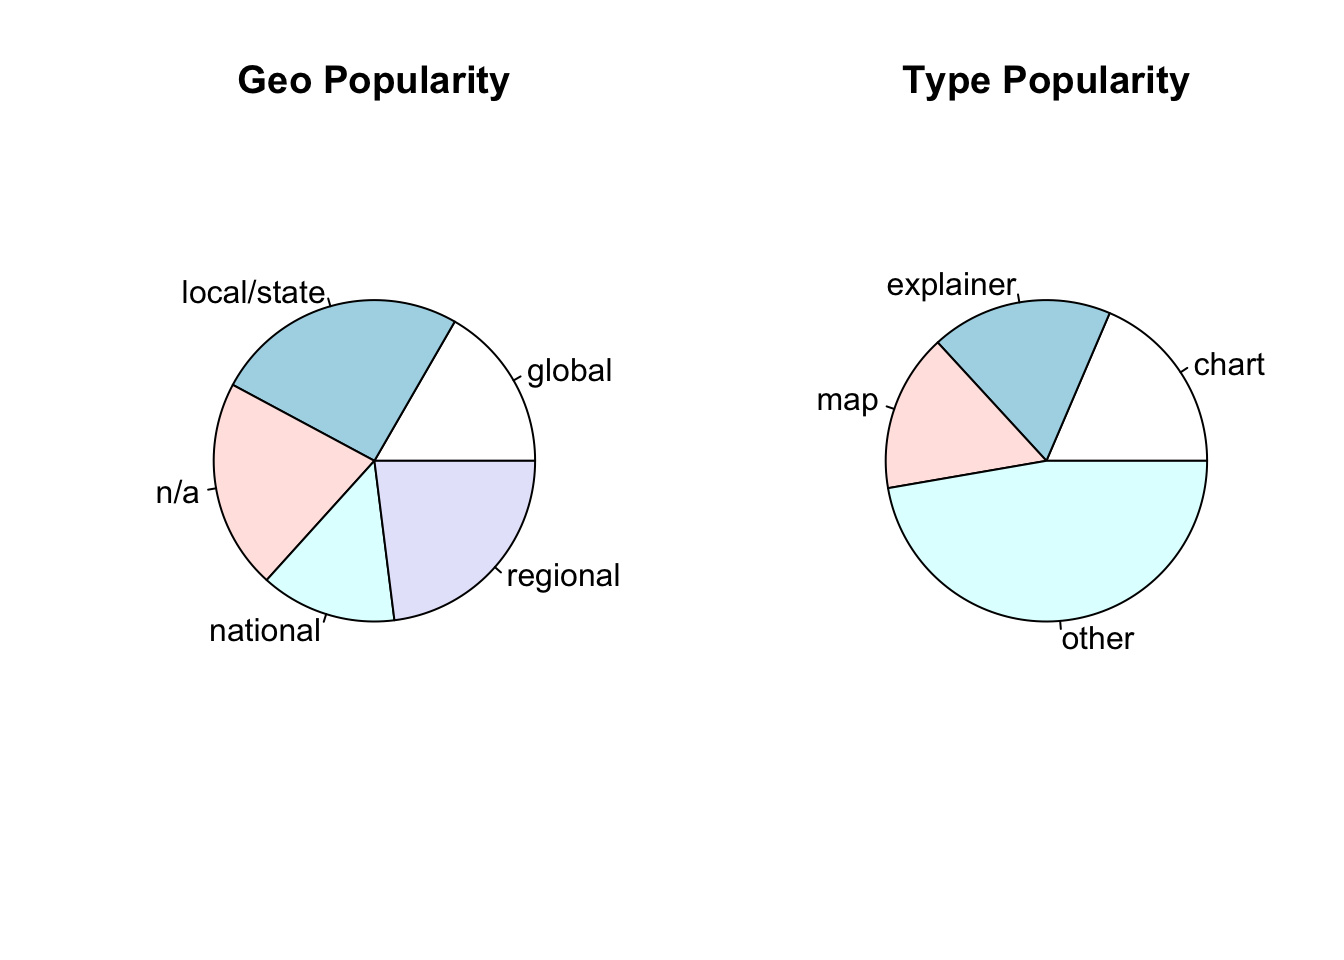
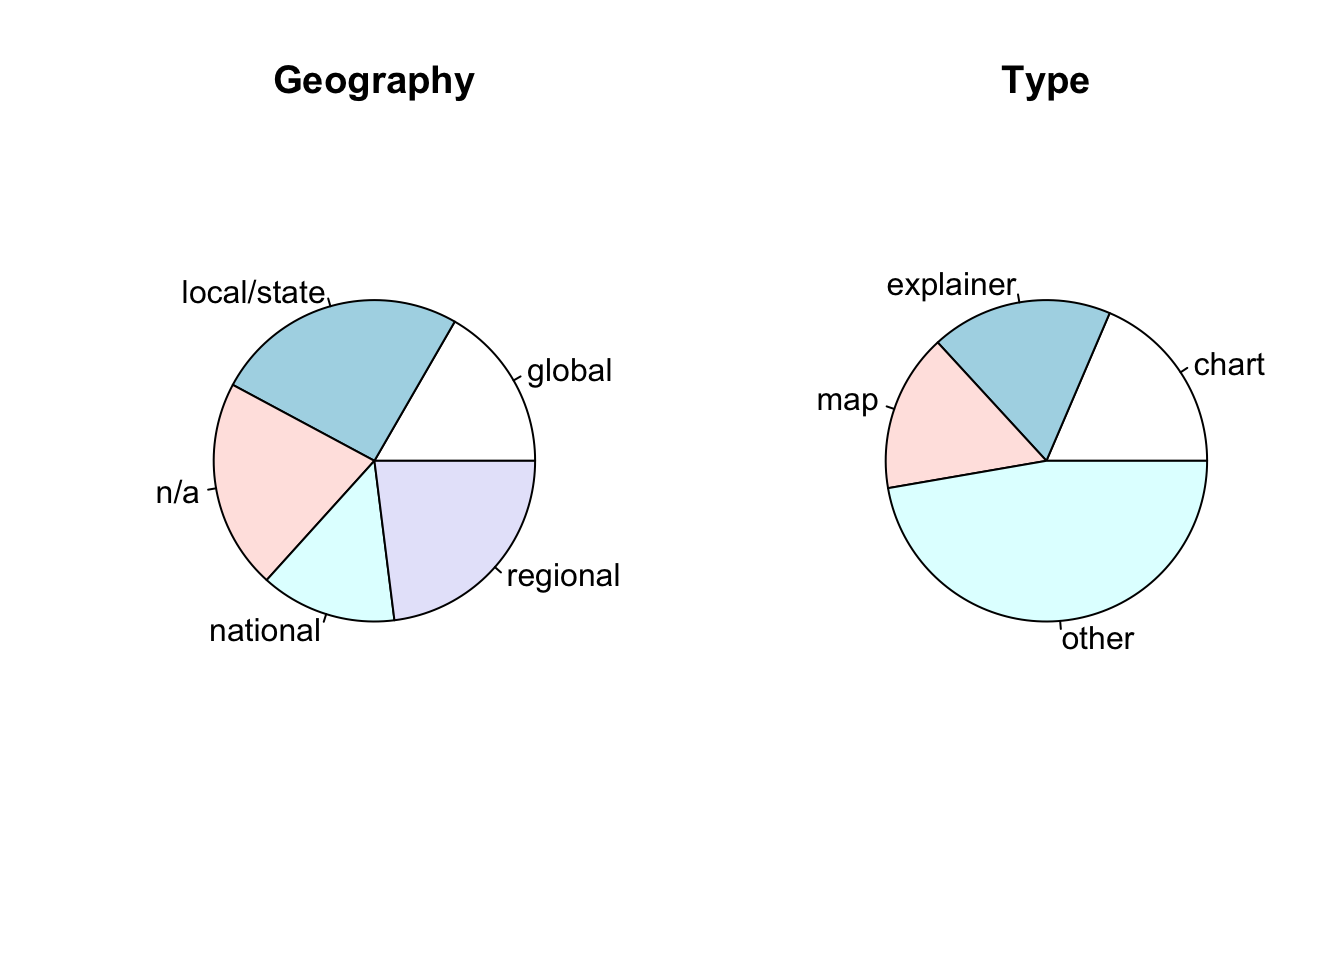
Polishing seasonal evaluation

Changed region(s): [[0.6562, 0.0625, 0.9062, 0.125], [0.1562, 0.0625, 0.375, 0.125]]

diff --git a/docs/index.html b/docs/index.html
@@ -399,26 +399,32 @@ div.tocify {
 
 </style>
 <div class="row" style="padding-top: 30px;">
-<div class="col-sm-10">
+<div class="col-sm-14">
 <h1 id="summer-2020"><strong>Summer 2020</strong></h1>
+<p>If you’re unsure about release and graphic names, <a href="https://docs.google.com/spreadsheets/d/1bArJV-oHTp09L4fk1vrAXzKVUX-wzr1ONmv0PGuXiwY/edit#gid=1301634659">click here</a> to find a guide, under <strong>‘Graphics Directory’</strong> tab.</p>
+<p>Summer content is considered to be all weekly releases and graphics published between ‘2020FirstDayAbove’ and ‘2020Records’.</p>
 <h2 id="ranked-releases">Ranked Releases</h2>
-<div id="htmlwidget-8bfced999cf7f2fa006d" style="width:100%;height:auto;" class="datatables html-widget"></div>
-<script type="application/json" data-for="htmlwidget-8bfced999cf7f2fa006d">{"x":{"filter":"none","fillContainer":true,"data":[["7/1/2020","8/12/2020","7/22/2020","9/2/2020","5/20/2020","7/13/2020","6/24/2020","8/19/2020","7/8/2020","6/1/2020","7/16/2020","7/29/2020","8/26/2020","9/16/2020","6/10/2020","5/27/2020","8/5/2020","6/17/2020","9/9/2020"],["20204thOfJuly","2020CDD","2020DaysAbove","2020FallPackage","2020FirstDayAbove","2020GlobalTempCheckup","2020HeatAndSeniors","2020HeatStreaks","2020HumidHeatDays","2020Hurricanes","2020JulyAugSeptTrend","2020Mosquitoes","2020OHW","2020Records","2020SmokeWaves","2020SummerPackage","2020Ticks","2020WarmingStripes","2020WesternWildfires"],[14,28,8,3,21,25,27,8,20,13,6,16,11,null,11,58,21,149,null],[8,17,1,0,10,5,8,0,2,2,1,7,0,null,7,14,10,7,null],[38,8,16,0,19,5,4,2,5,5,4,38,1,null,6,44,5,11,null],[60,53,25,3,50,35,39,10,27,20,11,61,12,null,24,116,36,167,null]],"container":"<table class=\"display fill-container\">\n  <thead>\n    <tr>\n      <th>Date Published<\/th>\n      <th>Release<\/th>\n      <th>Social<\/th>\n      <th>Stories<\/th>\n      <th>TV<\/th>\n      <th>Total Hits<\/th>\n    <\/tr>\n  <\/thead>\n<\/table>","options":{"scrollX":"70px","scrollY":"400px","pageLength":10,"columnDefs":[{"className":"dt-right","targets":[2,3,4,5]}],"order":[],"autoWidth":false,"orderClasses":false}},"evals":[],"jsHooks":[]}</script>
+<div id="htmlwidget-e91b1559cc8ba865f417" style="width:100%;height:auto;" class="datatables html-widget"></div>
+<script type="application/json" data-for="htmlwidget-e91b1559cc8ba865f417">{"x":{"filter":"none","fillContainer":true,"data":[["7/1/2020","8/12/2020","7/22/2020","9/2/2020","5/20/2020","7/13/2020","6/24/2020","8/19/2020","7/8/2020","6/1/2020","7/16/2020","7/29/2020","8/26/2020","9/16/2020","6/10/2020","5/27/2020","8/5/2020","6/17/2020","9/9/2020"],["20204thOfJuly","2020CDD","2020DaysAbove","2020FallPackage","2020FirstDayAbove","2020GlobalTempCheckup","2020HeatAndSeniors","2020HeatStreaks","2020HumidHeatDays","2020Hurricanes","2020JulyAugSeptTrend","2020Mosquitoes","2020OHW","2020Records","2020SmokeWaves","2020SummerPackage","2020Ticks","2020WarmingStripes","2020WesternWildfires"],[14,28,8,3,21,25,27,8,20,13,6,16,11,null,11,58,21,149,null],[8,17,1,0,10,5,8,0,2,2,1,7,0,null,7,14,10,7,null],[38,8,16,0,19,5,4,2,5,5,4,38,1,null,6,44,5,11,null],[60,53,25,3,50,35,39,10,27,20,11,61,12,null,24,116,36,167,null]],"container":"<table class=\"display fill-container\">\n  <thead>\n    <tr>\n      <th>Date Published<\/th>\n      <th>Release<\/th>\n      <th>Social<\/th>\n      <th>Stories<\/th>\n      <th>TV<\/th>\n      <th>Total Hits<\/th>\n    <\/tr>\n  <\/thead>\n<\/table>","options":{"scrollX":"70px","scrollY":"400px","pageLength":10,"columnDefs":[{"className":"dt-right","targets":[2,3,4,5]}],"order":[],"autoWidth":false,"orderClasses":false}},"evals":[],"jsHooks":[]}</script>
 <h2 id="ranked-graphics">Ranked Graphics</h2>
-<div id="htmlwidget-f6a551138001d7c6a26a" style="width:100%;height:auto;" class="datatables html-widget"></div>
-<script type="application/json" data-for="htmlwidget-f6a551138001d7c6a26a">{"x":{"filter":"none","fillContainer":true,"data":[["2020-06-01","2020-06-01","2020-06-10","2020-07-01","2020-08-12","2020-08-12","2020-07-22","2020-09-02","2020-09-02","2020-09-02","2020-05-20","2020-05-20","2020-07-13","2020-07-13","2020-06-24","2020-06-24","2020-08-19","2020-07-08","2020-07-08","2020-06-01","2020-07-16","2020-07-16","2020-07-16","2020-07-29","2020-07-29","2020-08-26","2020-08-26","2020-08-26","2020-09-16","2020-09-16","2020-09-16","2020-06-10","2020-05-27","2020-05-27","2020-05-27","2020-05-27","2020-08-05","2020-08-05","2020-08-05","2020-06-17","2020-06-17","2020-09-09","2020-09-09"],["2017Hurricanes_Graph","2017Hurricanes_Info","2017WildfireAirQuality","20204thOfJuly","2020CDD","2020CDD_FutureUse","2020DaysAbove","2020FallPackage_AvgT","2020FallPackage_DaysAbove","2020FallPackage_Map","2020FirstDayAbove","2020FirstDayAbove_Piechart","2020GlobalTempCheckup_HorseRace","2020GlobalTempCheckup_Map","2020HeatAndSeniors","2020HeatAndSeniors_CONUS","2020HeatStreaks","2020HumidHeatDays_Regional","2020HumidHeatDays_States","2020HurricaneSLR_Intensity","2020JulyAugSeptTrend_AUG","2020JulyAugSeptTrend_JUL","2020JulyAugSeptTrend_SEPT","2020Mosquitoes","2020Mosquitoes_Explainer","2020OHW_Info","2020OHW_Map","2020OHW_Temp","2020Records","2020Records_Map","2020Records_Map.gif","2020SmokeWaves_Map","2020SummerPackage_AvgT","2020SummerPackage_AvgT_CONUS","2020SummerPackage_DaysAboveNormal","2020SummerPackage_MinT","2020Ticks_Lyme","2020Ticks_PoisonIvy","2020Ticks_Temps","2020WarmingStripes","2020WarmingStripes_50States.gif","2020Wildfire","2020Wildfire_TotalAcresBurned"],[3,7,7,11,13,13,7,null,null,null,13,9,16,16,19,17,7,11,11,3,0,6,null,9,11,8,6,7,null,null,null,8,28,15,16,20,5,11,5,140,2,null,null],[0,2,0,3,1,2,1,null,null,null,3,4,3,3,2,2,0,2,2,1,0,1,null,3,3,0,0,0,null,null,null,6,8,5,4,5,2,0,10,7,0,null,null],[4,7,2,38,8,8,16,null,null,null,16,8,5,2,4,4,1,4,4,4,1,2,null,32,32,0,0,1,null,null,null,6,25,7,6,23,2,1,2,11,0,null,null],[7,16,9,52,22,23,24,null,null,null,32,21,24,21,25,23,8,17,17,8,1,9,null,44,46,8,6,8,null,null,null,20,61,27,26,48,9,12,17,158,2,null,null]],"container":"<table class=\"display fill-container\">\n  <thead>\n    <tr>\n      <th>Date Published<\/th>\n      <th>Graphic Name<\/th>\n      <th>Social<\/th>\n      <th>Stories<\/th>\n      <th>TV<\/th>\n      <th>Total Hits<\/th>\n    <\/tr>\n  <\/thead>\n<\/table>","options":{"scrollX":"70px","scrollY":"400px","pageLength":10,"columnDefs":[{"className":"dt-right","targets":[2,3,4,5]}],"order":[],"autoWidth":false,"orderClasses":false}},"evals":[],"jsHooks":[]}</script>
+<div id="htmlwidget-3253f27bf3675054ebfa" style="width:100%;height:auto;" class="datatables html-widget"></div>
+<script type="application/json" data-for="htmlwidget-3253f27bf3675054ebfa">{"x":{"filter":"none","fillContainer":true,"data":[["2020-06-01","2020-06-01","2020-06-10","2020-07-01","2020-08-12","2020-08-12","2020-07-22","2020-09-02","2020-09-02","2020-09-02","2020-05-20","2020-05-20","2020-07-13","2020-07-13","2020-06-24","2020-06-24","2020-08-19","2020-07-08","2020-07-08","2020-06-01","2020-07-16","2020-07-16","2020-07-16","2020-07-29","2020-07-29","2020-08-26","2020-08-26","2020-08-26","2020-09-16","2020-09-16","2020-09-16","2020-06-10","2020-05-27","2020-05-27","2020-05-27","2020-05-27","2020-08-05","2020-08-05","2020-08-05","2020-06-17","2020-06-17","2020-09-09","2020-09-09"],["2017Hurricanes_Graph","2017Hurricanes_Info","2017WildfireAirQuality","20204thOfJuly","2020CDD","2020CDD_FutureUse","2020DaysAbove","2020FallPackage_AvgT","2020FallPackage_DaysAbove","2020FallPackage_Map","2020FirstDayAbove","2020FirstDayAbove_Piechart","2020GlobalTempCheckup_HorseRace","2020GlobalTempCheckup_Map","2020HeatAndSeniors","2020HeatAndSeniors_CONUS","2020HeatStreaks","2020HumidHeatDays_Regional","2020HumidHeatDays_States","2020HurricaneSLR_Intensity","2020JulyAugSeptTrend_AUG","2020JulyAugSeptTrend_JUL","2020JulyAugSeptTrend_SEPT","2020Mosquitoes","2020Mosquitoes_Explainer","2020OHW_Info","2020OHW_Map","2020OHW_Temp","2020Records","2020Records_Map","2020Records_Map.gif","2020SmokeWaves_Map","2020SummerPackage_AvgT","2020SummerPackage_AvgT_CONUS","2020SummerPackage_DaysAboveNormal","2020SummerPackage_MinT","2020Ticks_Lyme","2020Ticks_PoisonIvy","2020Ticks_Temps","2020WarmingStripes","2020WarmingStripes_50States.gif","2020Wildfire","2020Wildfire_TotalAcresBurned"],[3,7,7,11,13,13,7,null,null,null,13,9,16,16,19,17,7,11,11,3,0,6,null,9,11,8,6,7,null,null,null,8,28,15,16,20,5,11,5,140,2,null,null],[0,2,0,3,1,2,1,null,null,null,3,4,3,3,2,2,0,2,2,1,0,1,null,3,3,0,0,0,null,null,null,6,8,5,4,5,2,0,10,7,0,null,null],[4,7,2,38,8,8,16,null,null,null,16,8,5,2,4,4,1,4,4,4,1,2,null,32,32,0,0,1,null,null,null,6,25,7,6,23,2,1,2,11,0,null,null],[7,16,9,52,22,23,24,null,null,null,32,21,24,21,25,23,8,17,17,8,1,9,null,44,46,8,6,8,null,null,null,20,61,27,26,48,9,12,17,158,2,null,null]],"container":"<table class=\"display fill-container\">\n  <thead>\n    <tr>\n      <th>Date Published<\/th>\n      <th>Graphic Name<\/th>\n      <th>Social<\/th>\n      <th>Stories<\/th>\n      <th>TV<\/th>\n      <th>Total Hits<\/th>\n    <\/tr>\n  <\/thead>\n<\/table>","options":{"scrollX":"70px","scrollY":"400px","pageLength":10,"columnDefs":[{"className":"dt-right","targets":[2,3,4,5]}],"order":[],"autoWidth":false,"orderClasses":false}},"evals":[],"jsHooks":[]}</script>
 <h2 id="graphic-popularity-by-release">Graphic Popularity by Release</h2>
-<div id="htmlwidget-dfa4f19e05a84f2004ac" style="width:100%;height:auto;" class="datatables html-widget"></div>
-<script type="application/json" data-for="htmlwidget-dfa4f19e05a84f2004ac">{"x":{"filter":"none","fillContainer":true,"data":[["2020-05-20","2020-05-20","2020-05-27","2020-05-27","2020-05-27","2020-05-27","2020-06-01","2020-06-01","2020-06-01","2020-06-10","2020-06-10","2020-06-17","2020-06-17","2020-06-24","2020-06-24","2020-07-01","2020-07-08","2020-07-08","2020-07-13","2020-07-13","2020-07-16","2020-07-16","2020-07-22","2020-07-29","2020-07-29","2020-08-05","2020-08-05","2020-08-05","2020-08-12","2020-08-12","2020-08-19","2020-08-26","2020-08-26","2020-08-26"],["2020FirstDayAbove","2020FirstDayAbove","2020SummerPackage","2020SummerPackage","2020SummerPackage","2020SummerPackage","2020Hurricanes","2020Hurricanes","2020Hurricanes","2020SmokeWaves","2020SmokeWaves","2020WarmingStripes","2020WarmingStripes","2020HeatAndSeniors","2020HeatAndSeniors","20204thOfJuly","2020HumidHeatDays","2020HumidHeatDays","2020GlobalTempCheckup","2020GlobalTempCheckup","2020JulyAugSeptTrend","2020JulyAugSeptTrend","2020DaysAbove","2020Mosquitoes","2020Mosquitoes","2020Ticks","2020Ticks","2020Ticks","2020CDD","2020CDD","2020HeatStreaks","2020OHW","2020OHW","2020OHW"],["2020FirstDayAbove","2020FirstDayAbove_Piechart","2020SummerPackage_AvgT","2020SummerPackage_MinT","2020SummerPackage_AvgT_CONUS","2020SummerPackage_DaysAboveNormal","2017Hurricanes_Info","2020HurricaneSLR_Intensity","2017Hurricanes_Graph","2020SmokeWaves_Map","2017WildfireAirQuality","2020WarmingStripes","2020WarmingStripes_50States.gif","2020HeatAndSeniors","2020HeatAndSeniors_CONUS","20204thOfJuly","2020HumidHeatDays_Regional","2020HumidHeatDays_States","2020GlobalTempCheckup_HorseRace","2020GlobalTempCheckup_Map","2020JulyAugSeptTrend_JUL","2020JulyAugSeptTrend_AUG","2020DaysAbove","2020Mosquitoes_Explainer","2020Mosquitoes","2020Ticks_Temps","2020Ticks_PoisonIvy","2020Ticks_Lyme","2020CDD_FutureUse","2020CDD","2020HeatStreaks","2020OHW_Info","2020OHW_Temp","2020OHW_Map"],[32,21,61,48,27,26,16,8,7,20,9,158,2,25,23,52,17,17,24,21,9,1,24,46,44,17,12,9,23,22,8,8,8,6]],"container":"<table class=\"display fill-container\">\n  <thead>\n    <tr>\n      <th>Date Published<\/th>\n      <th>Release<\/th>\n      <th>Graphic Name<\/th>\n      <th>Total Hits<\/th>\n    <\/tr>\n  <\/thead>\n<\/table>","options":{"scrollX":"70px","scrollY":"400px","pageLength":10,"columnDefs":[{"className":"dt-right","targets":3}],"order":[],"autoWidth":false,"orderClasses":false}},"evals":[],"jsHooks":[]}</script>
-<h2 id="graphic-popularity-by-type-and-geo">Graphic Popularity by Type and Geo</h2>
+<div id="htmlwidget-c6bd89df13887a86158d" style="width:100%;height:auto;" class="datatables html-widget"></div>
+<script type="application/json" data-for="htmlwidget-c6bd89df13887a86158d">{"x":{"filter":"none","fillContainer":true,"data":[["2020-05-20","2020-05-20","2020-05-27","2020-05-27","2020-05-27","2020-05-27","2020-06-01","2020-06-01","2020-06-01","2020-06-10","2020-06-10","2020-06-17","2020-06-17","2020-06-24","2020-06-24","2020-07-01","2020-07-08","2020-07-08","2020-07-13","2020-07-13","2020-07-16","2020-07-16","2020-07-22","2020-07-29","2020-07-29","2020-08-05","2020-08-05","2020-08-05","2020-08-12","2020-08-12","2020-08-19","2020-08-26","2020-08-26","2020-08-26"],["2020FirstDayAbove","2020FirstDayAbove","2020SummerPackage","2020SummerPackage","2020SummerPackage","2020SummerPackage","2020Hurricanes","2020Hurricanes","2020Hurricanes","2020SmokeWaves","2020SmokeWaves","2020WarmingStripes","2020WarmingStripes","2020HeatAndSeniors","2020HeatAndSeniors","20204thOfJuly","2020HumidHeatDays","2020HumidHeatDays","2020GlobalTempCheckup","2020GlobalTempCheckup","2020JulyAugSeptTrend","2020JulyAugSeptTrend","2020DaysAbove","2020Mosquitoes","2020Mosquitoes","2020Ticks","2020Ticks","2020Ticks","2020CDD","2020CDD","2020HeatStreaks","2020OHW","2020OHW","2020OHW"],["2020FirstDayAbove","2020FirstDayAbove_Piechart","2020SummerPackage_AvgT","2020SummerPackage_MinT","2020SummerPackage_AvgT_CONUS","2020SummerPackage_DaysAboveNormal","2017Hurricanes_Info","2020HurricaneSLR_Intensity","2017Hurricanes_Graph","2020SmokeWaves_Map","2017WildfireAirQuality","2020WarmingStripes","2020WarmingStripes_50States.gif","2020HeatAndSeniors","2020HeatAndSeniors_CONUS","20204thOfJuly","2020HumidHeatDays_Regional","2020HumidHeatDays_States","2020GlobalTempCheckup_HorseRace","2020GlobalTempCheckup_Map","2020JulyAugSeptTrend_JUL","2020JulyAugSeptTrend_AUG","2020DaysAbove","2020Mosquitoes_Explainer","2020Mosquitoes","2020Ticks_Temps","2020Ticks_PoisonIvy","2020Ticks_Lyme","2020CDD_FutureUse","2020CDD","2020HeatStreaks","2020OHW_Info","2020OHW_Temp","2020OHW_Map"],[32,21,61,48,27,26,16,8,7,20,9,158,2,25,23,52,17,17,24,21,9,1,24,46,44,17,12,9,23,22,8,8,8,6]],"container":"<table class=\"display fill-container\">\n  <thead>\n    <tr>\n      <th>Date Published<\/th>\n      <th>Release<\/th>\n      <th>Graphic Name<\/th>\n      <th>Total Hits<\/th>\n    <\/tr>\n  <\/thead>\n<\/table>","options":{"scrollX":"70px","scrollY":"400px","pageLength":10,"columnDefs":[{"className":"dt-right","targets":3}],"order":[],"autoWidth":false,"orderClasses":false}},"evals":[],"jsHooks":[]}</script>
+<h2 id="graphic-popularity-by-attribute">Graphic Popularity by Attribute</h2>
+<p>Warming Stripes campaign included two graphics: a “local other” and a “local gif”.</p>
 <p><img src="index_files/figure-html/Graphic%20Popularity%20by%20Type%20and%20Geo-1.png" width="672" /></p>
-<h2 id="without-warming-stripes-campaign">Without ‘Warming Stripes’ campaign</h2>
+<h3 id="excluding-warming-stripes-campaign">Excluding ‘Warming Stripes’ campaign</h3>
 <p><img src="index_files/figure-html/Graphic%20Popularity%20by%20Type%20and%20Geo%20(without%20WS)-1.png" width="672" /></p>
 <h2 id="evergreen-releases">Evergreen releases</h2>
-<div id="htmlwidget-c7170d0ed8f79d705356" style="width:100%;height:auto;" class="datatables html-widget"></div>
-<script type="application/json" data-for="htmlwidget-c7170d0ed8f79d705356">{"x":{"filter":"none","fillContainer":true,"data":[["WeatherPower","20202019EOYGlobalTemps","2017SummerHeatPrepPackage","2019HeatIndex","2020SpringRain","Blackout: Extreme Weather","2018Mosquitoes","2019Rainfall","2019Warming","2019Wildfire","2020Drawdown","2019RecordsUpdate","Zillow Report","2018SeasonalWarming","2019AirQuality2","2019RainfallPt2","2015SummerSports","2019WarmSummerNights","2020BillionDollarDisasters","Western Wildfires: A Fiery Future","2018Hurricanes","2016Mosquitoes","2017Hurricanes","2017WorldOceansDay","2014SLR","2020Birds","2020SpringPackage","Cape Canaveral PAT Report","Webinar: Covering Disasters: 2020 Hurricane Season","2015HeavyPrecip","2016CoastalFloodDays","2016Sewage","2017WildfireAirQuality","2019DecadeTemps","2019Fishing","2019HardinessZones","2019LocalRecords","2019Soils","2019WarmingStripes","2019WinterTrends","2020GlobalTempCheckUp","Charleston Flyover","Surging Seas Extreme Scenario 2100 (3D)","The Age of Western Wildfires","Way Worse","Webinar: Covering Disasters: Extreme Heat 2020","WESTERN WILDFIRES","2015WhenItRainsItPours","2017AlgaeBlooms","2017LongerSummers","2018Downpours","2018Trees","2018WinterOlympics","2019DaysAbove","2019GrowingSeason","2019Hazards","2019MoreSummerDaysAboveNormal","2019SummerTempTrends","2019TreesUpdate","2020EarthDay","A Hidden Hazard","FAITH AND FLOODING: How Sea Level Rise Threatens America’s Houses of Worship","Hot and Getting Hotter: Heat Islands Cooking U.S. Cities","Report: TV Weathercasters Are Increasing Americans’ Understanding of Climate Change","Report: Wildlfires &amp; Air Pollution","Talking Shop: Extreme Weather and the Climate Connection","Webinar: Covering Disasters: 2020 Wildfire Season","Webinar: Reporting on Disasters during COVID-19"],[56,12,10,9,12,1,4,6,9,4,3,7,5,5,1,5,0,6,3,5,0,2,1,1,3,2,1,0,3,2,2,2,1,2,1,1,2,2,2,1,0,2,1,1,1,2,2,0,0,1,1,1,0,1,0,1,1,0,0,0,0,0,1,1,0,1,1,1],[52,3,2,2,0,11,0,3,2,1,2,1,3,1,1,1,1,0,1,1,0,0,1,3,0,1,0,3,0,0,0,0,0,0,1,1,0,0,0,1,0,0,1,1,1,0,0,0,0,0,0,0,1,0,1,0,0,0,0,0,1,1,0,0,1,0,0,0],[245,6,6,7,5,0,7,2,0,5,5,0,0,1,5,1,5,0,2,0,5,2,2,0,0,0,2,0,0,0,0,0,1,0,0,0,0,0,0,0,2,0,0,0,0,0,0,1,1,0,0,0,0,0,0,0,0,1,1,1,0,0,0,0,0,0,0,0],[353,21,18,18,17,12,11,11,11,10,10,8,8,7,7,7,6,6,6,6,5,4,4,4,3,3,3,3,3,2,2,2,2,2,2,2,2,2,2,2,2,2,2,2,2,2,2,1,1,1,1,1,1,1,1,1,1,1,1,1,1,1,1,1,1,1,1,1]],"container":"<table class=\"display fill-container\">\n  <thead>\n    <tr>\n      <th>Release<\/th>\n      <th>Social<\/th>\n      <th>Stories<\/th>\n      <th>TV<\/th>\n      <th>Total Hits<\/th>\n    <\/tr>\n  <\/thead>\n<\/table>","options":{"scrollX":"70px","scrollY":"400px","pageLength":10,"columnDefs":[{"className":"dt-right","targets":[1,2,3,4]}],"order":[],"autoWidth":false,"orderClasses":false}},"evals":[],"jsHooks":[]}</script>
+<p>Content usage that was tracked during the summer but had been published earlier.</p>
+<p><strong>WeatherPower</strong> was the top evergreen graphic, largely because of AJ Fox’s continued sponsored segment.</p>
+<p>After that, the top three ‘Evergreen’ releases were <a href="https://medialibrary.climatecentral.org/resources/2019-in-review-global-temperature-rankings">20202019EOYGlobalTemps</a>, <a href="https://medialibrary.climatecentral.org/resources/the-season-of-extreme-heat">2017SummerHeatPrepPackage</a>, and <a href="https://medialibrary.climatecentral.org/resources/climate-matters-extreme-heat-index-threatening-outdoor-sports">2019HeatIndex</a>.</p>
+<div id="htmlwidget-4ad24c142eaadef882fa" style="width:100%;height:auto;" class="datatables html-widget"></div>
+<script type="application/json" data-for="htmlwidget-4ad24c142eaadef882fa">{"x":{"filter":"none","fillContainer":true,"data":[["WeatherPower","20202019EOYGlobalTemps","2017SummerHeatPrepPackage","2019HeatIndex","2020SpringRain","Blackout: Extreme Weather","2018Mosquitoes","2019Rainfall","2019Warming","2019Wildfire","2020Drawdown","2019RecordsUpdate","Zillow Report","2018SeasonalWarming","2019AirQuality2","2019RainfallPt2","2015SummerSports","2019WarmSummerNights","2020BillionDollarDisasters","Western Wildfires: A Fiery Future","2018Hurricanes","2016Mosquitoes","2017Hurricanes","2017WorldOceansDay","2014SLR","2020Birds","2020SpringPackage","Cape Canaveral PAT Report","Webinar: Covering Disasters: 2020 Hurricane Season","2015HeavyPrecip","2016CoastalFloodDays","2016Sewage","2017WildfireAirQuality","2019DecadeTemps","2019Fishing","2019HardinessZones","2019LocalRecords","2019Soils","2019WarmingStripes","2019WinterTrends","2020GlobalTempCheckUp","Charleston Flyover","Surging Seas Extreme Scenario 2100 (3D)","The Age of Western Wildfires","Way Worse","Webinar: Covering Disasters: Extreme Heat 2020","WESTERN WILDFIRES","2015WhenItRainsItPours","2017AlgaeBlooms","2017LongerSummers","2018Downpours","2018Trees","2018WinterOlympics","2019DaysAbove","2019GrowingSeason","2019Hazards","2019MoreSummerDaysAboveNormal","2019SummerTempTrends","2019TreesUpdate","2020EarthDay","A Hidden Hazard","FAITH AND FLOODING: How Sea Level Rise Threatens America’s Houses of Worship","Hot and Getting Hotter: Heat Islands Cooking U.S. Cities","Report: TV Weathercasters Are Increasing Americans’ Understanding of Climate Change","Report: Wildlfires &amp; Air Pollution","Talking Shop: Extreme Weather and the Climate Connection","Webinar: Covering Disasters: 2020 Wildfire Season","Webinar: Reporting on Disasters during COVID-19"],[56,12,10,9,12,1,4,6,9,4,3,7,5,5,1,5,0,6,3,5,0,2,1,1,3,2,1,0,3,2,2,2,1,2,1,1,2,2,2,1,0,2,1,1,1,2,2,0,0,1,1,1,0,1,0,1,1,0,0,0,0,0,1,1,0,1,1,1],[52,3,2,2,0,11,0,3,2,1,2,1,3,1,1,1,1,0,1,1,0,0,1,3,0,1,0,3,0,0,0,0,0,0,1,1,0,0,0,1,0,0,1,1,1,0,0,0,0,0,0,0,1,0,1,0,0,0,0,0,1,1,0,0,1,0,0,0],[245,6,6,7,5,0,7,2,0,5,5,0,0,1,5,1,5,0,2,0,5,2,2,0,0,0,2,0,0,0,0,0,1,0,0,0,0,0,0,0,2,0,0,0,0,0,0,1,1,0,0,0,0,0,0,0,0,1,1,1,0,0,0,0,0,0,0,0],[353,21,18,18,17,12,11,11,11,10,10,8,8,7,7,7,6,6,6,6,5,4,4,4,3,3,3,3,3,2,2,2,2,2,2,2,2,2,2,2,2,2,2,2,2,2,2,1,1,1,1,1,1,1,1,1,1,1,1,1,1,1,1,1,1,1,1,1]],"container":"<table class=\"display fill-container\">\n  <thead>\n    <tr>\n      <th>Release<\/th>\n      <th>Social<\/th>\n      <th>Stories<\/th>\n      <th>TV<\/th>\n      <th>Total Hits<\/th>\n    <\/tr>\n  <\/thead>\n<\/table>","options":{"scrollX":"70px","scrollY":"400px","pageLength":10,"columnDefs":[{"className":"dt-right","targets":[1,2,3,4]}],"order":[],"autoWidth":false,"orderClasses":false}},"evals":[],"jsHooks":[]}</script>
 </div>
-<div class="col-sm-10">
+<div class="col-sm-14">
 <p><a> </a></p>
 </div>
 
@@ -468,7 +474,7 @@ $(document).ready(function ()  {
 
     // establish options
     var options = {
-      selectors: "h1",
+      selectors: "h1,h2",
       theme: "bootstrap3",
       context: '.toc-content',
       hashGenerator: function (text) {
